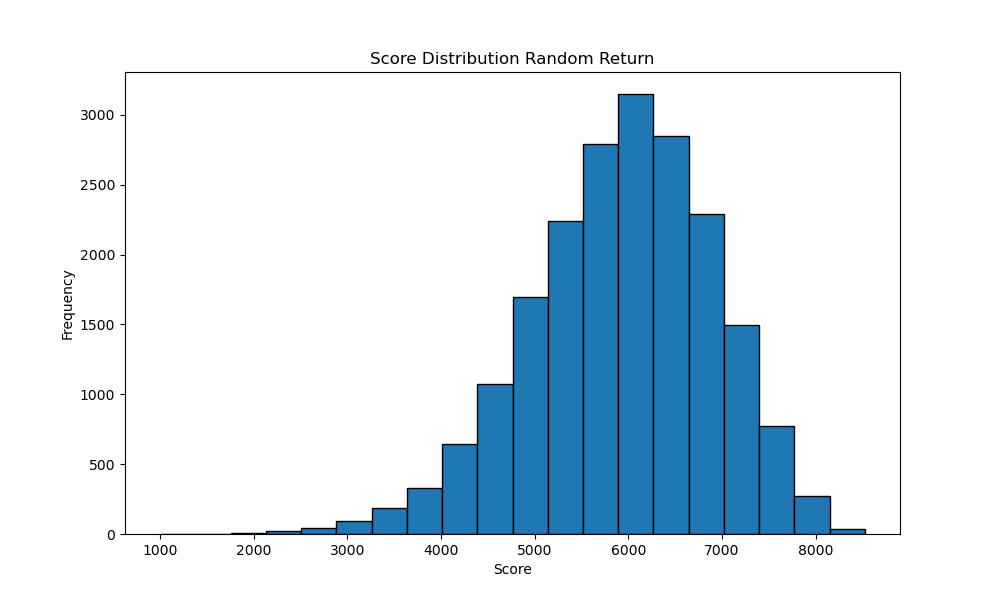
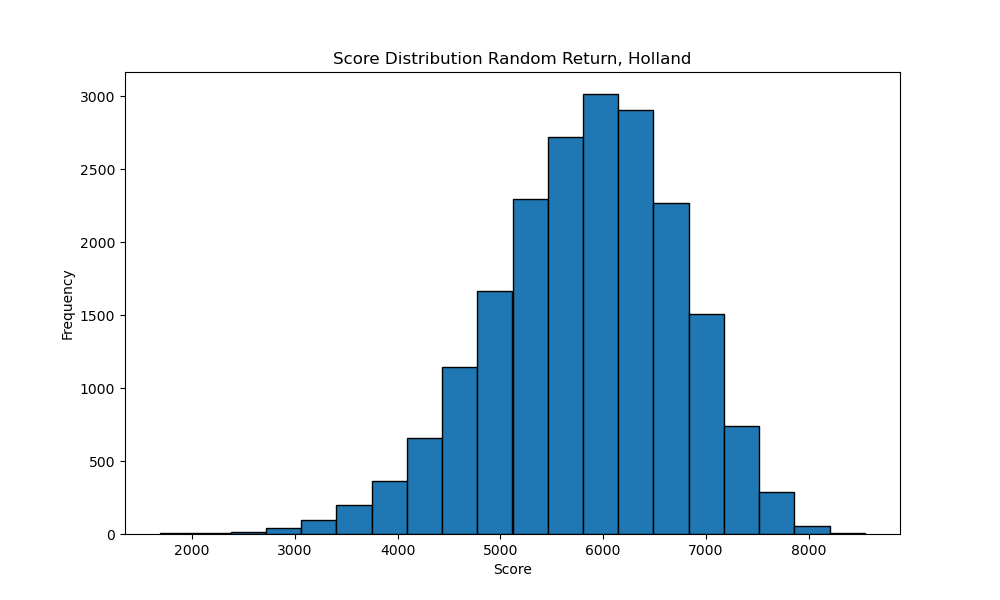
added files for Netherlands

diff --git a/main.py b/main.py
@@ -8,6 +8,11 @@ from classes.score_distribution import ScoreDistribution
 import os
 
 def main():
+    # create the output folder if it doesn't exist
+    if not os.path.exists('output'):
+        os.makedirs('output')
+
+    # data for Noord-Holland
     data = LoadData('data/ConnectiesHolland.csv', 'data/StationsHolland.csv')
     all_connections = data.connections
 
@@ -33,20 +38,55 @@ def main():
     score_optimizer.add_trajectory()
     score_optimizer_results.calculate_score()
 
-    # create the output folder if it doesn't exist
-    if not os.path.exists('output'):
-        os.makedirs('output')
-
     # save results to csv
     random_r_results.to_csv('output/output_r.csv')
     random_nr_results.to_csv('output/output_nr.csv')
 
     # calculate and plot score distribution
-    ScoreDistribution(20000, Random_R, all_connections, 'output/score_distribution_r.png', 'Score Distribution Random Return', 7, all_connections, 120)
-    ScoreDistribution(20000, Random_NR, all_connections, 'output/score_distribution_nr.png', 'Score Distribution Random No Return', 7, all_connections, 120)
+    ScoreDistribution(20000, Random_R, all_connections, 'output/score_distribution_r.png', 'Score Distribution Random Return, Holland', 7, all_connections, 120)
+    ScoreDistribution(20000, Random_NR, all_connections, 'output/score_distribution_nr.png', 'Score Distribution Random No Return, Holland', 7, all_connections, 120)
 
     # plot the trajectories
     plotter = TrainNetwork('data/ConnectiesHolland.csv', 'data/StationsHolland.csv')
+    plotter.create_graph()
+    plotter.plot_graph()
+
+    # data for Nederland
+    data = LoadData('data/ConnectiesNationaal.csv', 'data/StationsNationaal.csv')
+    all_connections = data.connections
+
+    # random return
+    random_r = Random_R(7, all_connections, 120)
+    random_r_results = Base(random_r.all_trajectories, random_r.trajectory_count, all_connections)
+
+    # random no return
+    random_nr = Random_NR(7, all_connections, 120)
+    random_nr_results = Base(random_nr.all_trajectories, random_nr.trajectory_count, all_connections)
+
+    # score Score_Optimizer
+    score_optimizer = Score_Optimizer(7, all_connections, 120)
+    score_optimizer_results = Base(score_optimizer.all_trajectories, score_optimizer.trajectory_count, all_connections)
+
+    # run experiment and calculate score
+    random_r.add_trajectory()
+    random_r_results.calculate_score()
+
+    random_nr.add_trajectory()
+    random_nr_results.calculate_score()
+
+    score_optimizer.add_trajectory()
+    score_optimizer_results.calculate_score()
+
+    # save results to csv
+    random_r_results.to_csv('output/NL_output_r.csv')
+    random_nr_results.to_csv('output/NL_output_nr.csv')
+
+    # calculate and plot score distribution
+    ScoreDistribution(20000, Random_R, all_connections, 'output/NL_score_distribution_r.png', 'Score Distribution Random Return, Netherlands', 7, all_connections, 120)
+    ScoreDistribution(20000, Random_NR, all_connections, 'output/NL_score_distribution_nr.png', 'Score Distribution Random No Return, Netherlands', 7, all_connections, 120)
+
+    # plot the trajectories
+    plotter = TrainNetwork('data/ConnectiesNationaal.csv', 'data/StationsNationaal.csv')
     plotter.create_graph()
     plotter.plot_graph()
 

diff --git a/algorithms/best_score.py b/algorithms/best_score.py
@@ -10,9 +10,7 @@ class Score_Optimizer(Random_R):
             current_trajectory = self.connections[:]
             current_trajectory.append(connection)
             score = self.calculate_p_for_trajectory(current_trajectory)
-            print(score)
             possible_connections_scores.append(score)
 
         best_connection_index = possible_connections_scores.index(max(possible_connections_scores))
-        print(max(possible_connections))
         return possible_connections[best_connection_index]
